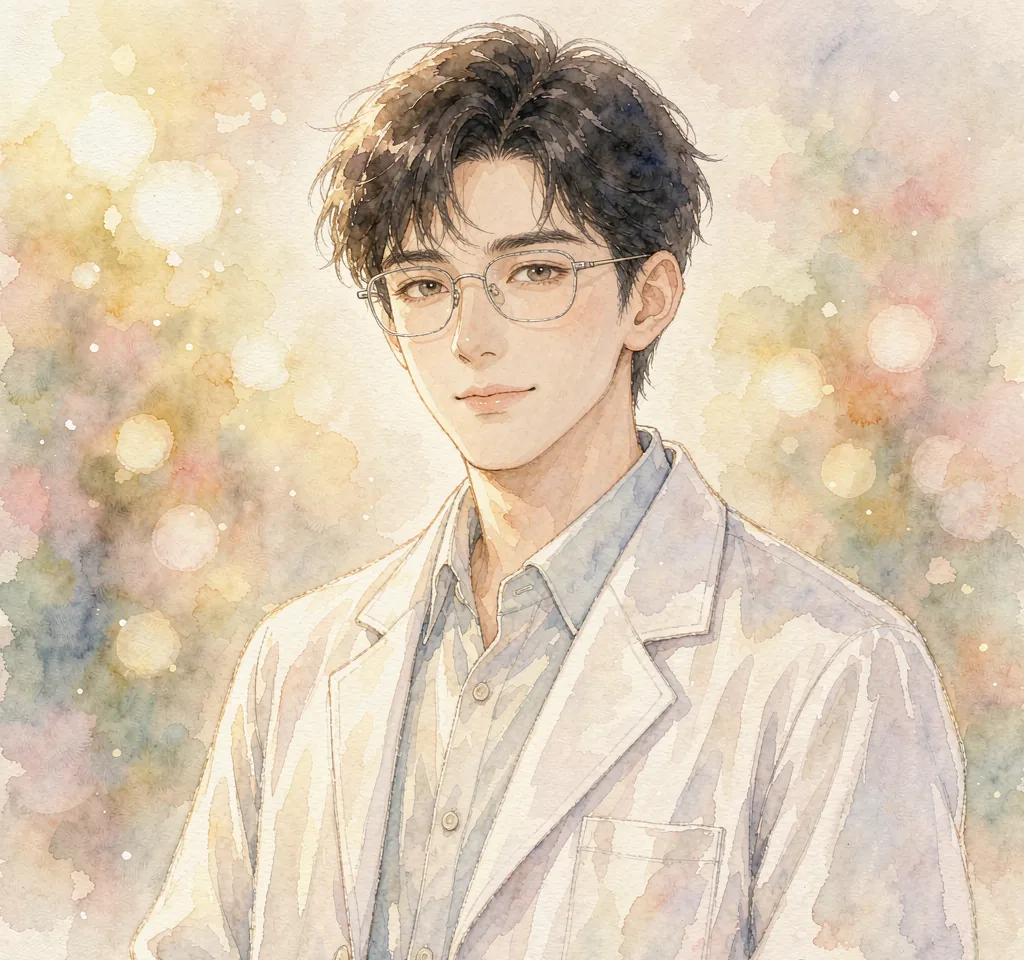
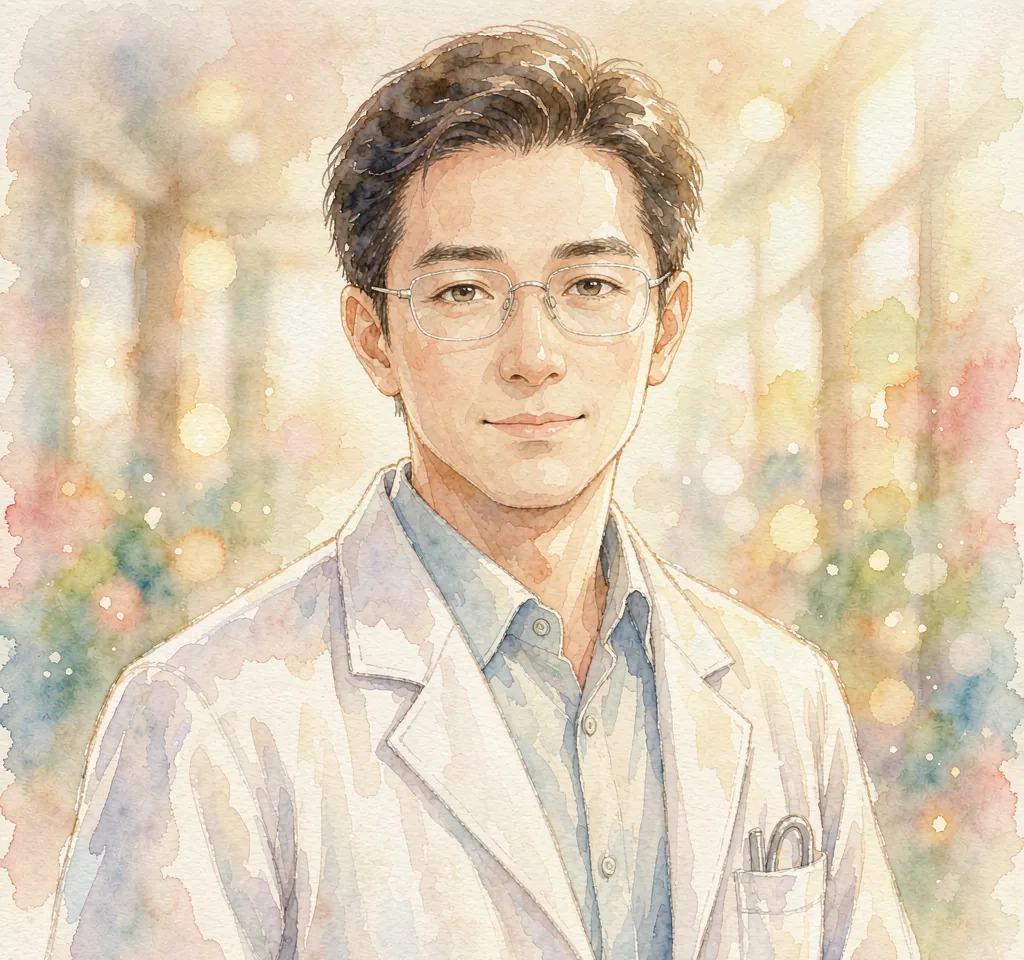
立绘二轮返工：白余欢要「胖但帅」、叶渊/林望舒回到四十岁、肖灼去粗犷（CACHE v43）
作者二轮反馈后的 4 张重做（同名覆盖，页面与数据零改动）：
- 白余欢：上一版「明显偏胖+双下巴」被说丑，这一版要胖而且帅。关键是
  「婴儿肥」——圆脸有肉但五官清秀，是讨人喜欢的胖男孩，不是丑化
  （第一次「帅」的尝试又胖感全无，两个极端各试一次才找到平衡点）
- 叶渊：三十五岁被说太年轻 → 四十岁左右、成熟稳重的科主任
- 林望舒：同上 → 四十岁左右
- 肖灼：上一版肌肉虬结太粗犷 → 二十六岁青年、匀称有运动感、面容干净俊朗

仍然是纯裁切去水印（右下角 4 格检查：无水印无接缝），CACHE v42 → v43
保证用户端拿到新图。

diff --git a/sw.js b/sw.js
@@ -19,7 +19,7 @@
  *      NETWORK_TIMEOUT（500ms），所以它们必须走缓存优先。
  *   3. /app/ 前缀（安装包、version.json）不拦截，直接交给网络
  */
-var CACHE = 'linyuan-v42';
+var CACHE = 'linyuan-v43';
 
 /**
  * 缓存条目的「自愈 TTL」：超过这个年龄的缓存命中，会在后台补一次刷新。
